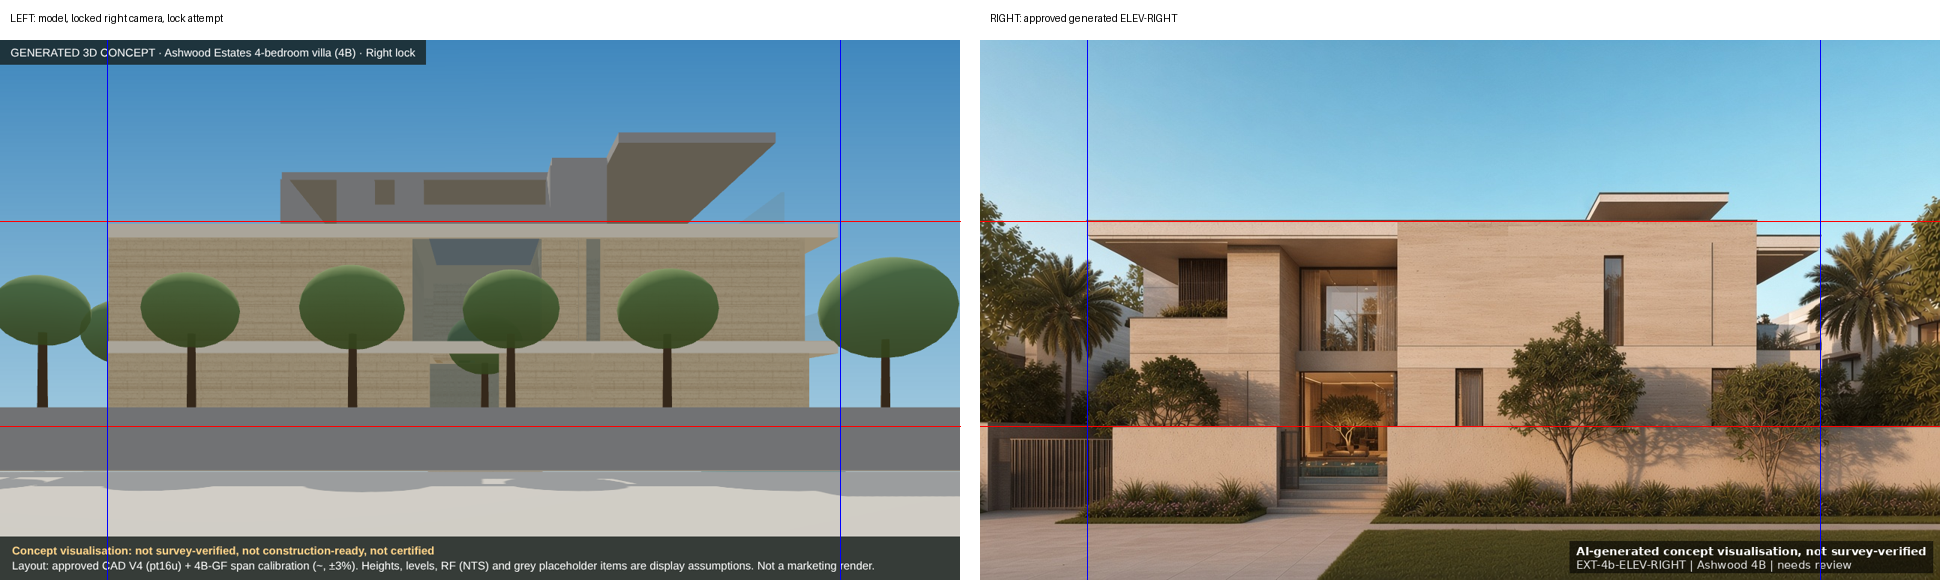
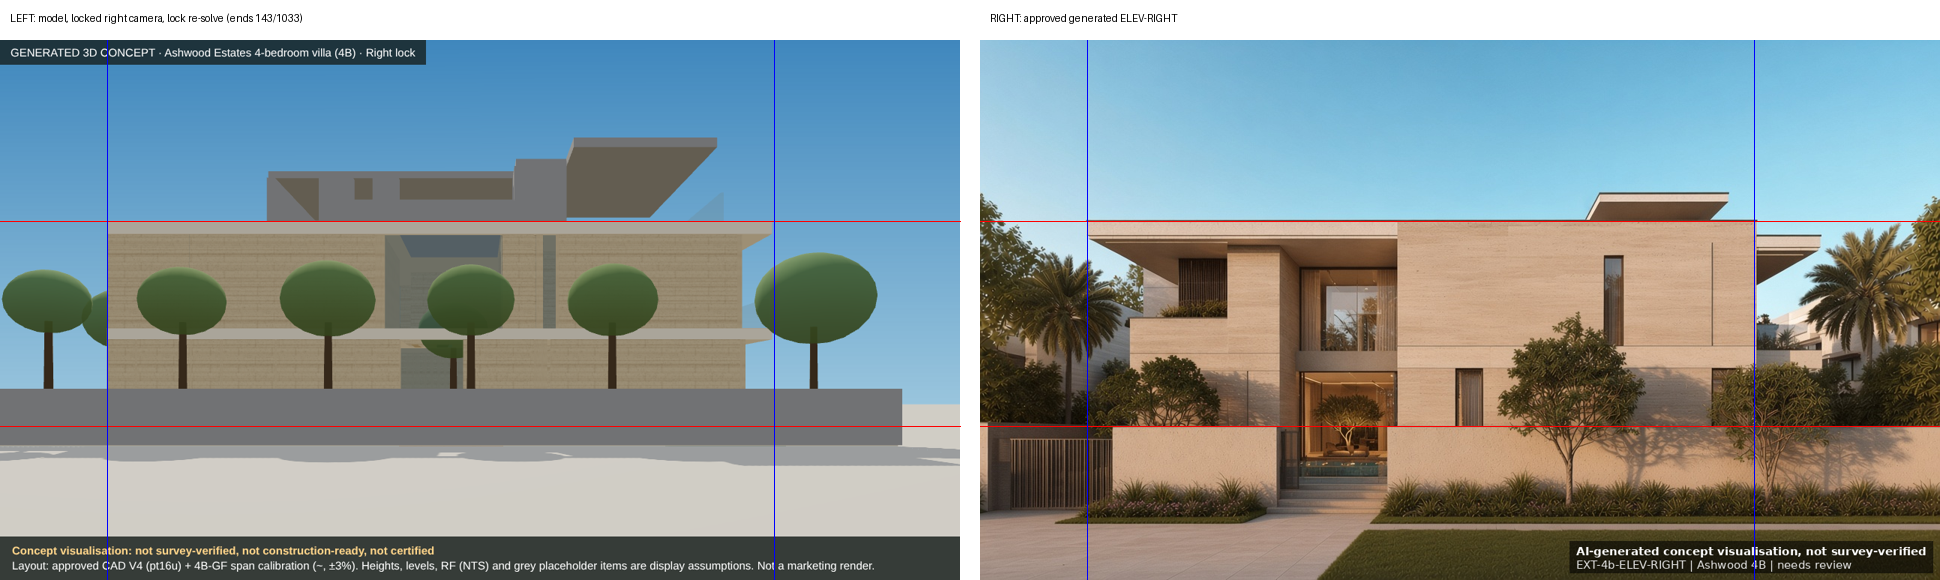
Right view: lock re-solved to the main wall end (critic)
Claude-Session: https://claude.ai/code/session_01A9CX9ZbzKpptDTnR1kqycS

Changed region(s): [[0.0, 0.2172, 0.4948, 0.869], [0.0928, 0.031, 0.1237, 0.0621]]

diff --git a/exterior-garden-3d/4b/walk_exterior_wip/views/right/STEP_LOG.md b/exterior-garden-3d/4b/walk_exterior_wip/views/right/STEP_LOG.md
@@ -15,4 +15,5 @@ Labels: concept visualisation, not survey-verified, not construction-ready, not 
 | 7 Motion | | | | NOT STARTED |
 
 ## Pass history
-- Lock (this commit): camera solved and locked, awaiting critic.
+- Lock (103ccf4): critic FAIL, right end solved to the rear overhang (x 1120) instead of the main wall end.
+- Lock re-solve (this commit): ends 143 / 1033, camera pos (42.6, 1.6, 13.45), target (15.88, 4.66, 13.45). Awaiting critic.
